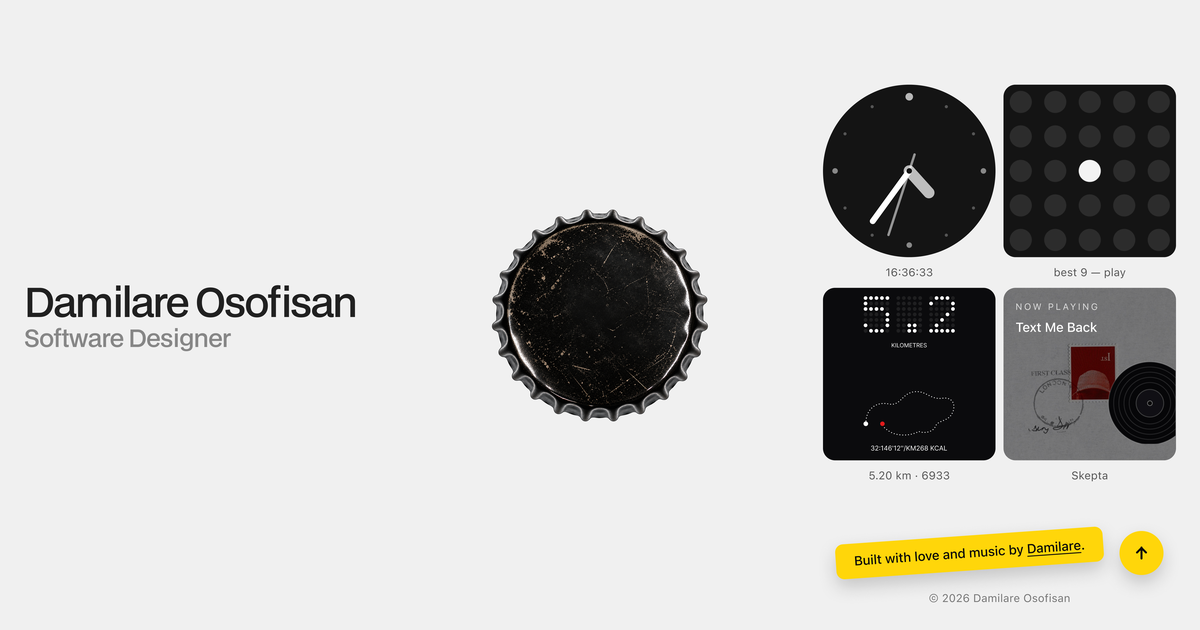
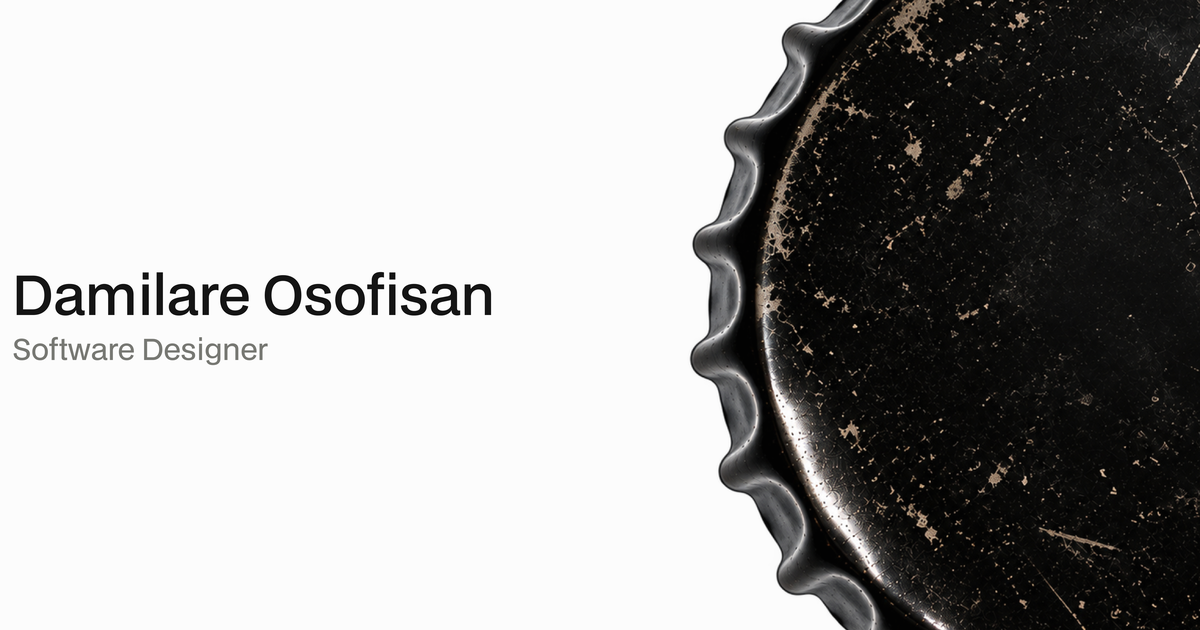
New share card, and the apex serves as the canonical origin
Share card: the owner's bottle-cap composition, installed as sent. The
source is already 1.9048:1, the Open Graph ratio, so serving it is a
downscale and never a crop or a re-layout. A JPEG companion sits beside
it for scrapers that prefer one. Alt now describes the actual image
instead of the previous card's tiles and sticker.

og:image and twitter:image were already emitting type, width, height and
alt from the file convention, so the card needed no metadata changes to
cover the platforms: X, Facebook, LinkedIn, Slack, Discord, WhatsApp and
iMessage all read summary_large_image at 1200x630.

Origin: damilare.works was set on the project as a redirect domain to
www, which is why it kept 308ing and why site.url had to name www. It
is now assigned as a serving domain, so the apex answers directly and
site.url names it. Both hosts still serve.

diff --git a/app/opengraph-image.tsx b/app/opengraph-image.tsx
@@ -3,16 +3,19 @@ import { join } from "node:path";
 
 export const size = { width: 1200, height: 630 };
 export const contentType = "image/png";
-export const alt = "Damilare Osofisan, Software Designer — cap, widget tiles and sticker footer";
+export const alt = "Damilare Osofisan, Software Designer — close-up of a bottle cap on white";
 
-/* The share card is the coin, full stop. It used to be a generated dark
-   lockup with the portrait; the owner chose the cap instead, so this route
-   serves the static artwork in `public/dossier/og-image.png` rather than
-   drawing a second card. One card, automatic on every route that does not
-   set its own (work pages use their gallery frames). A scraper only ever
-   fetches a static file, so no spin can reach a feed — the most motion this
-   surface can carry is the coin caught at an angle, which is how the file
-   itself is composed. */
+/* The share card, and it is one file because a scraper will only ever fetch
+   one. The owner's composition is used exactly as sent: the source is
+   already 1.9048:1, the Open Graph ratio, so serving it is a downscale and
+   never a crop. Nothing is re-laid-out here — the cap stays on the right,
+   the name and role stay on the left, because a redrawn card is a second
+   card and would drift from the one the owner approved.
+
+   Next appends a per-build hash to this route's URL, so a deploy changes
+   the address and every platform re-scrapes instead of serving the card
+   it cached from the last one. That is why the long-lived immutable
+   header below is safe here and would not be on a fixed URL. */
 export default function Image() {
   const bytes = readFileSync(join(process.cwd(), "public/dossier/og-image.png"));
   return new Response(bytes, {

diff --git a/data/site.ts b/data/site.ts
@@ -12,7 +12,7 @@ export const site = {
      points at this deployment, this is the one line that changes.
      `data/site.test.ts` holds it to a host that answers so the same mistake
      cannot land twice. */
-  url: "https://www.damilare.works",
+  url: "https://damilare.works",
   email: "dosofisan7@gmail.com",
   linkedin: "https://www.linkedin.com/in/damilareoo",
 };

diff --git a/README.md b/README.md
@@ -118,7 +118,7 @@ green end to end; KV makes readings survive restarts and redeploys.
 ## Deployment
 
 Vercel. `app/layout.tsx` resolves absolute metadata against `site.url`
-(`https://www.damilare.works`) — never `VERCEL_URL`, whose
+(`https://damilare.works`) — never `VERCEL_URL`, whose
 per-deployment host dies with the build and takes every share card with
 it. Whitelist the production Spotify redirect URI alongside localhost.
 
